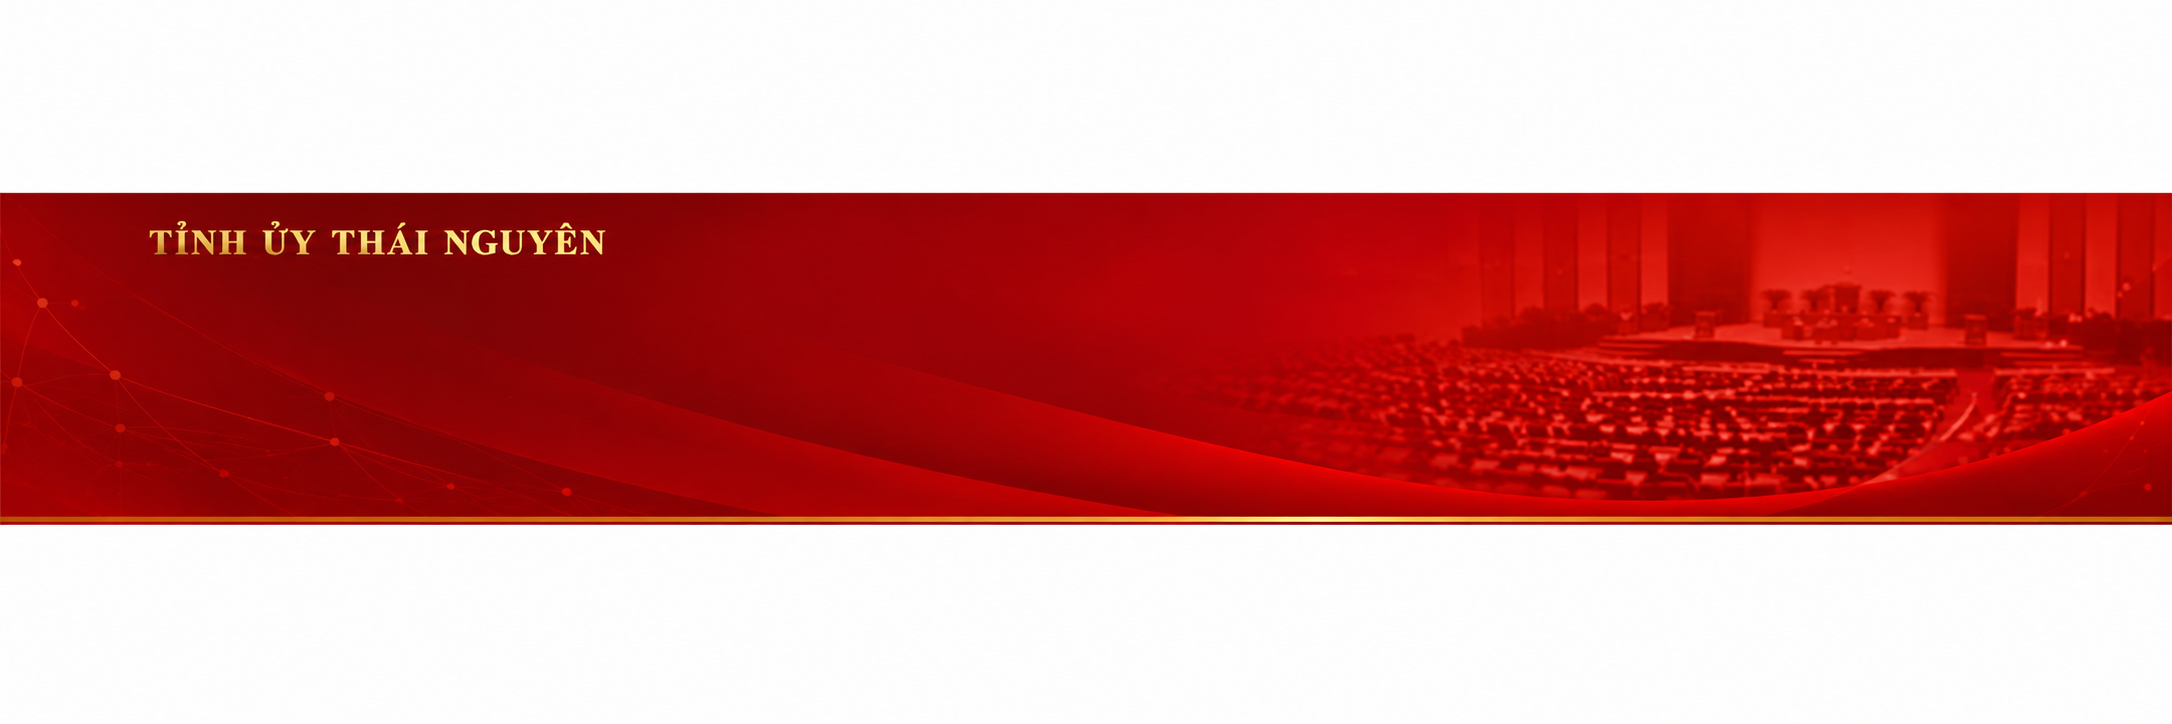
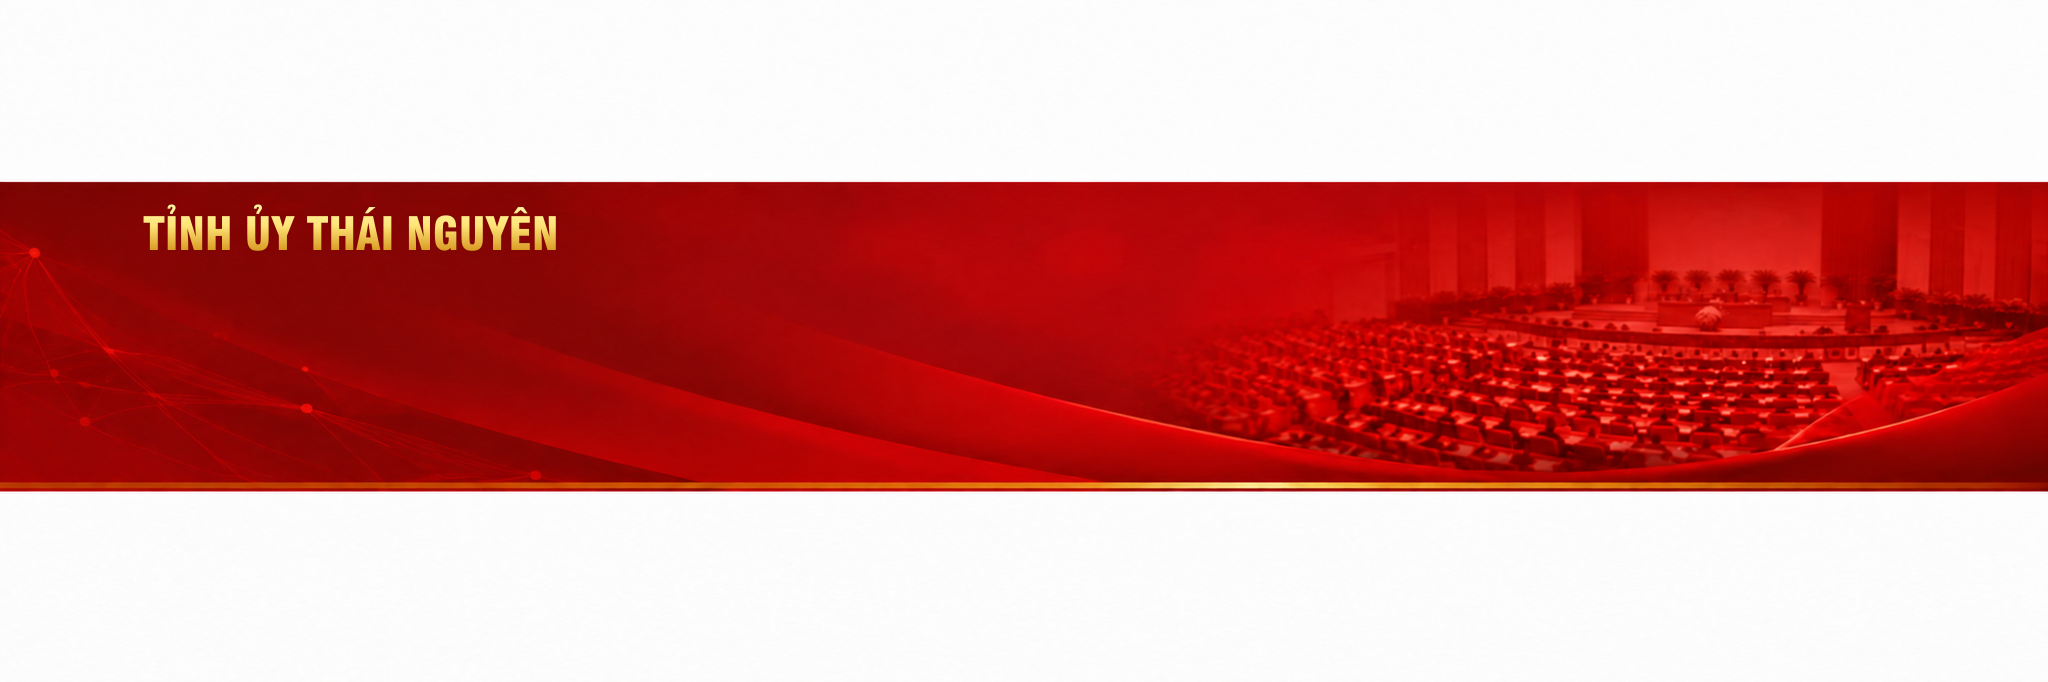
Cap nhat

diff --git a/Phonghop/style.css b/Phonghop/style.css
@@ -48,7 +48,7 @@ body {
   /* Gọi ảnh trực tiếp thông qua thẻ ảo để dựng độ cao co giãn tự nhiên theo chiều rộng màn hình */
   background: url("./images/banner-bg.png") no-repeat center center;
   background-size: 100% auto;
-  padding-top: 10%;
+  padding-top: 15%;
   /* Tỷ lệ ảnh banner-bg.png: 3840 x 180 */
 }
 
@@ -483,8 +483,8 @@ body {
   border-radius: 6px;
   box-shadow:
     0 4px 0 #d0c9b5,
-    /* Bóng đổ chân ghế màu sậm hơn của trắng ngà */
-    0 6px 4px rgba(0, 0, 0, 0.08);
+    /* Bóng đổ chân ghế màu sậm hơn của trắng ngà */ 0 6px 4px
+      rgba(0, 0, 0, 0.08);
   border: 1px solid #cbd5e1;
   /* Viền xám nhẹ chỉn chu */
   display: flex;
@@ -518,8 +518,7 @@ body {
     0 4px 0 #421510,
     0 0 8px rgba(241, 196, 15, 0.4),
     -6px 10px 0 -4px #8b5a2b,
-    /* Tay vịn gỗ bên trái */
-    6px 10px 0 -4px #8b5a2b !important;
+    /* Tay vịn gỗ bên trái */ 6px 10px 0 -4px #8b5a2b !important;
   /* Tay vịn gỗ bên phải */
 }
 
@@ -719,7 +718,6 @@ body {
 /* MODAL & HIGHLIGHT */
 /* Ghế tìm thấy dùng xanh lam/cyan để tương phản rõ với hệ đỏ - vàng hiện tại. */
 @keyframes search-seat-pulse {
-
   0%,
   100% {
     transform: scale(1.12);
